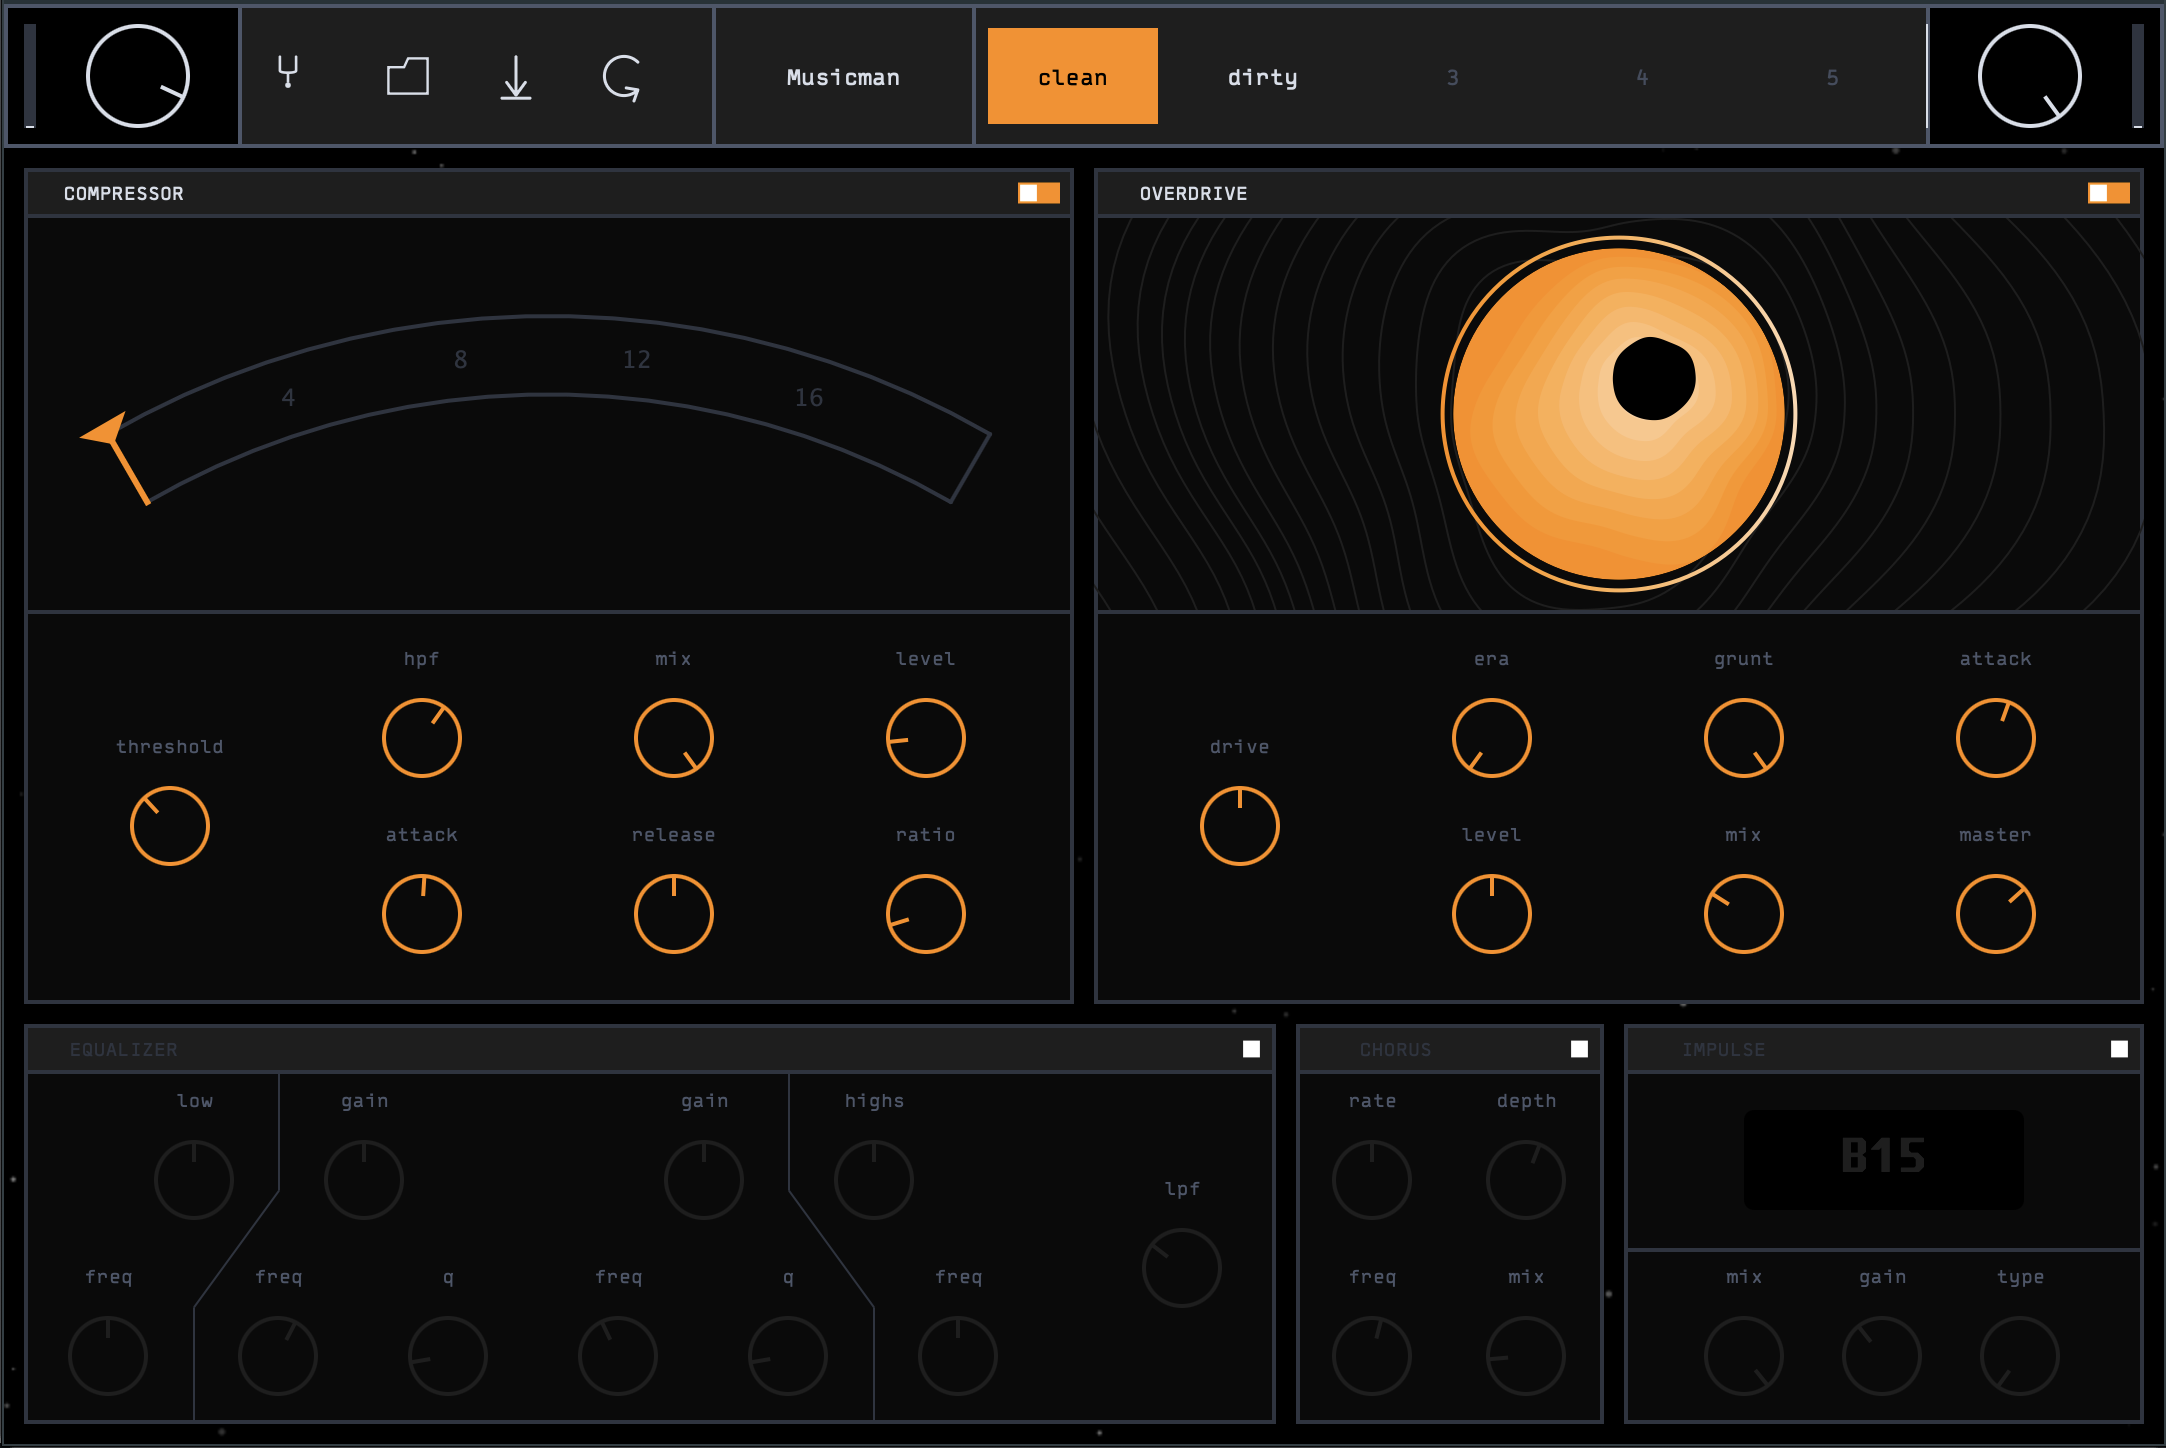
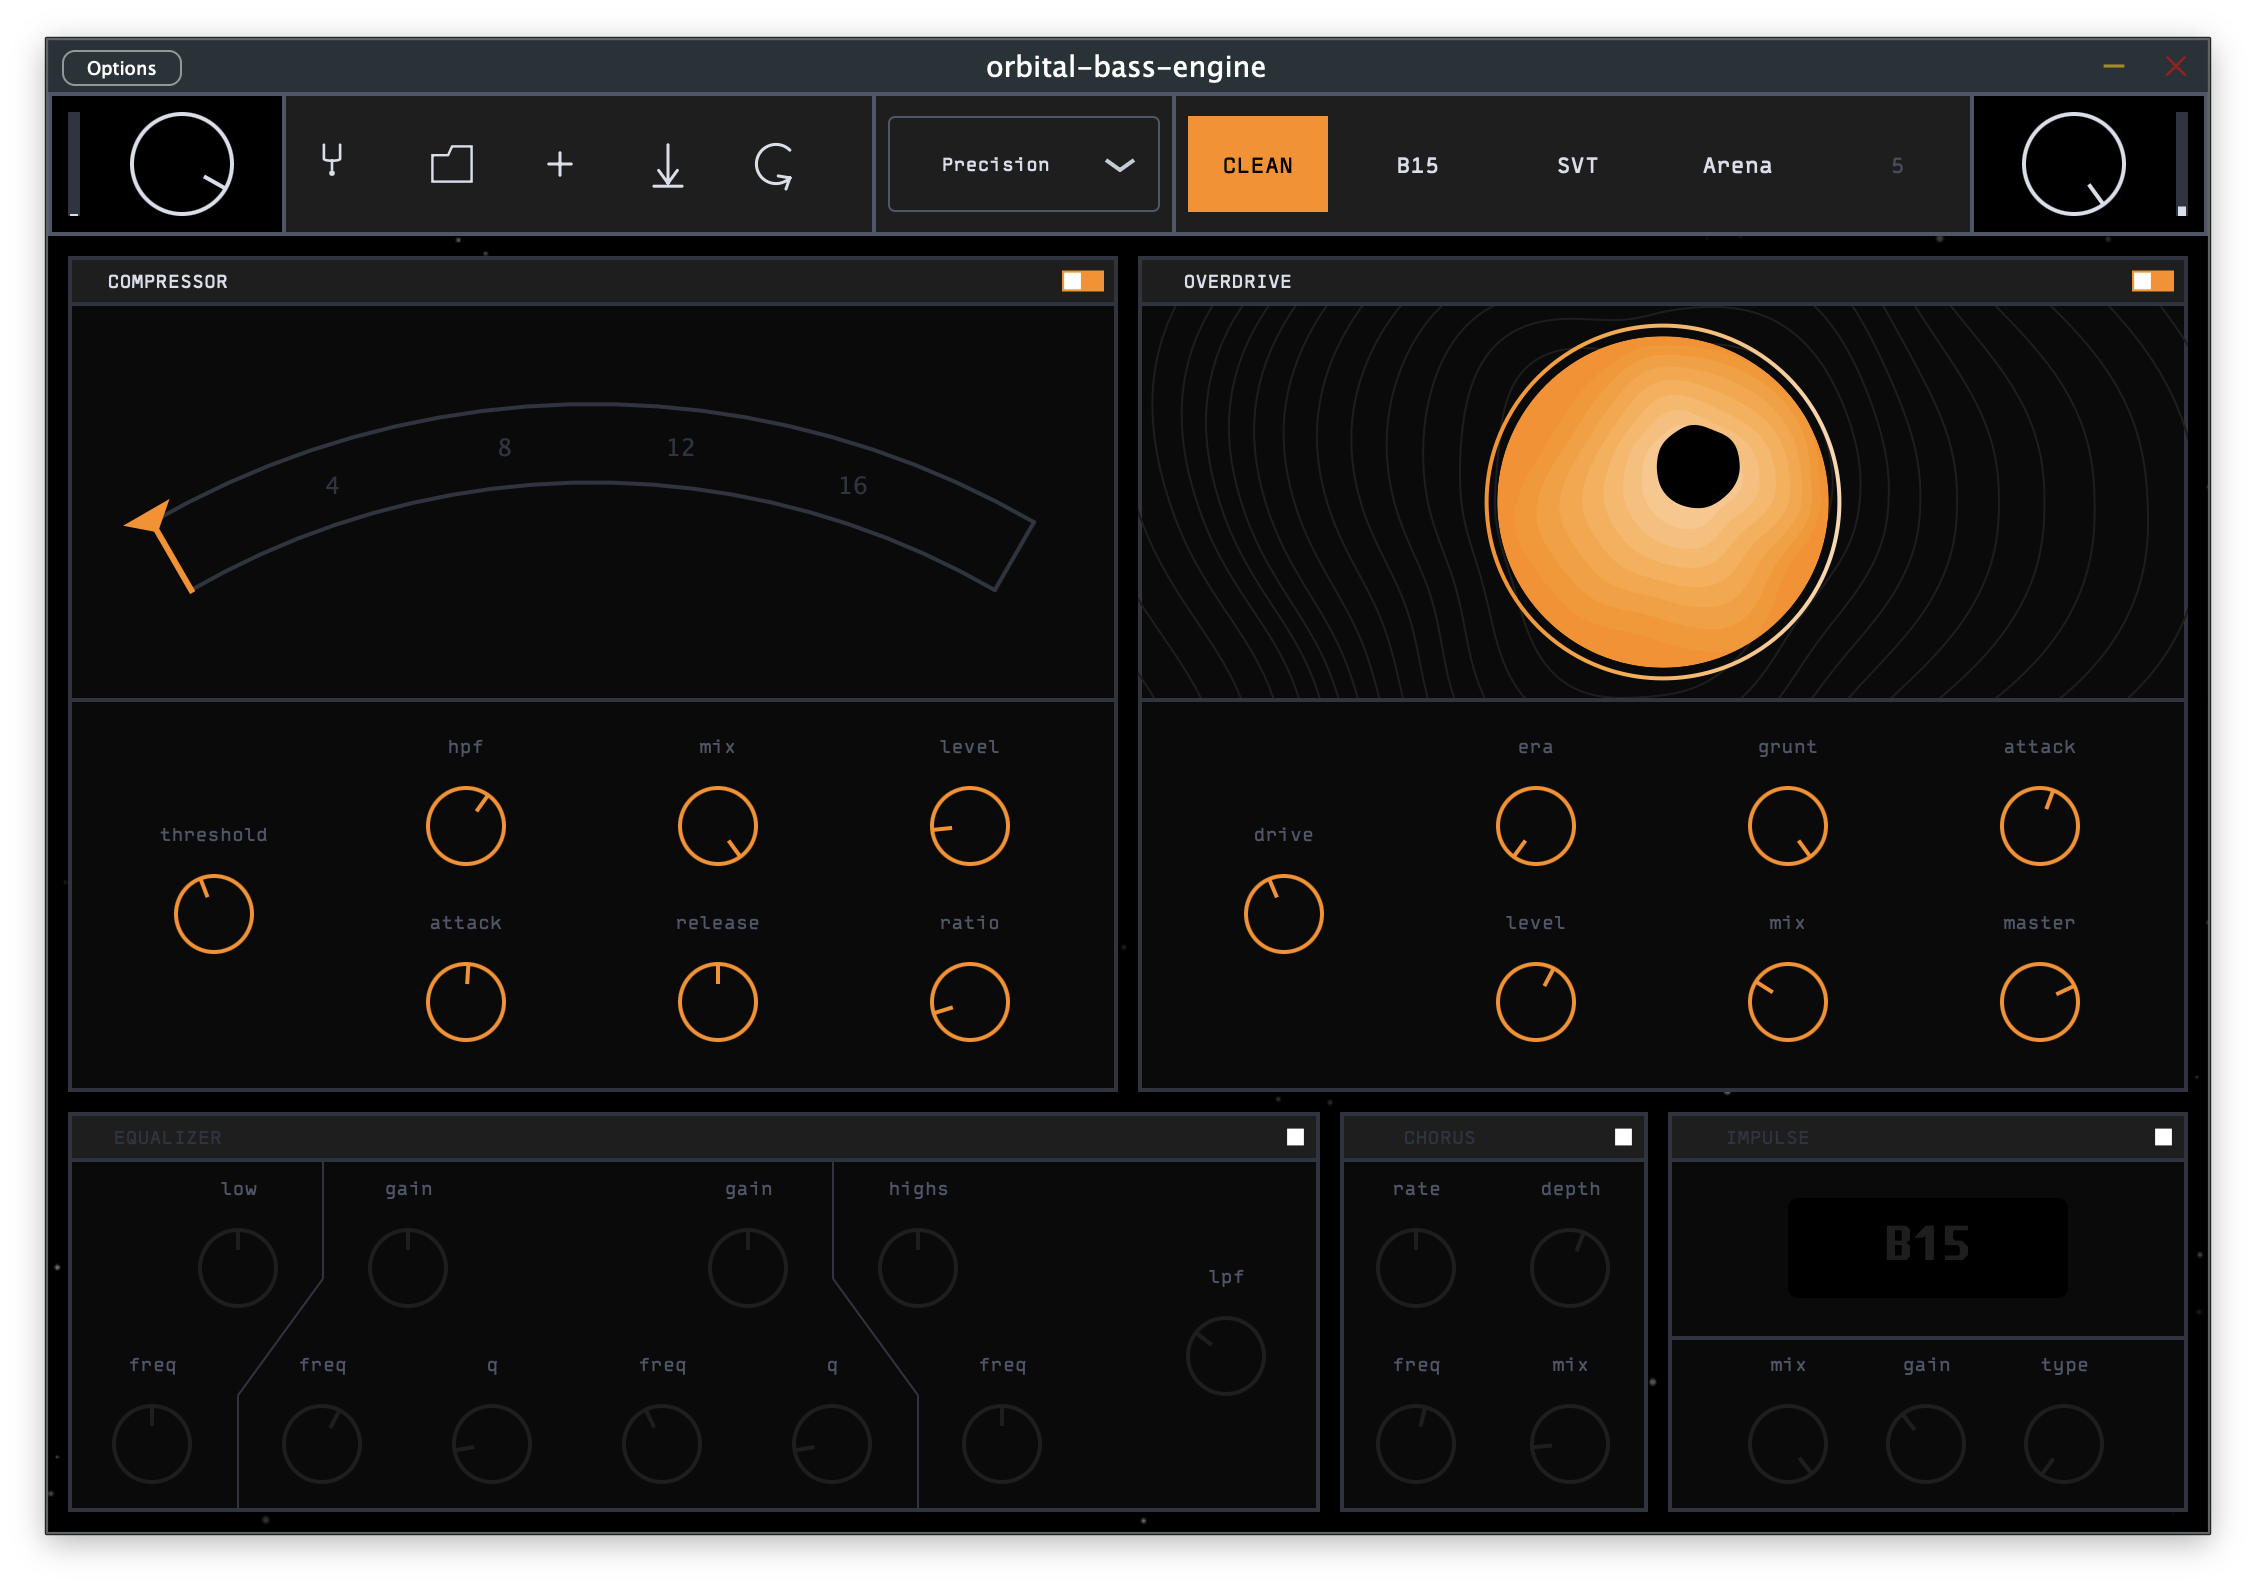
update: doc + screenshot

diff --git a/CLAUDE.md b/CLAUDE.md
@@ -1,0 +1,102 @@
+# Orbital Bass Engine
+
+Bass guitar audio plugin built with JUCE and C++. Runs as a standalone app (macOS/Windows), with plugin format support planned (AU, VST3).
+
+## Build
+
+```bash
+cmake -S . -B builds/local/release -DCMAKE_BUILD_TYPE=Release
+cmake --build builds/local/release --config Release
+```
+
+The standalone app is output to `builds/local/release/src/orbital-bass-engine_artefacts/Release/Standalone/`.
+
+Shortcut targets are available via `make run`, `make build-release`, `make build-debug`, etc.
+
+## Project Structure
+
+```
+src/
+├── plugin_audio_processor.{h,cpp}   # Main audio processor, DSP chain, state persistence
+├── plugin_editor.{h,cpp}            # Top-level editor, wires GUI to processor
+├── parameters.h                     # All audio parameter definitions (createParameterLayout)
+├── preset_manager.{h,cpp}           # Save/load/apply individual presets (XML files)
+├── session_manager.{h,cpp}          # Manages root folder, collections, and preset slots
+├── gui/
+│   ├── header.{h,cpp}               # Top bar: meters, gain knobs, tuner, preset controls
+│   ├── panels.{h,cpp}               # Main panel layout (compressor, amp, EQ, chorus, IR)
+│   ├── preset_bar.{h,cpp}           # 5 clickable preset slots
+│   ├── preset_icon_buttons.{h,cpp}  # Icon buttons: folder, +, save, reload
+│   ├── session_name_display.{h,cpp} # Collection selector dropdown (ComboBox)
+│   ├── colours.h                    # Colour palette (ColourCodes, GuiColours namespaces)
+│   ├── dimensions.h                 # GUI dimension constants
+│   ├── components/                  # Reusable components (LabeledKnob, SolidTooltip)
+│   ├── compressor/                  # Compressor panel (knobs, meter, component)
+│   ├── amp/                         # Amp panel with multiple designs (Helios, Borealis, Nebula)
+│   ├── eq/                          # 5-band EQ panel
+│   ├── chorus/                      # Chorus panel
+│   ├── ir/                          # Impulse response / cabinet sim panel
+│   ├── synth/                       # Synth voices panel
+│   ├── looks/                       # Custom LookAndFeel classes
+│   ├── tuner.{h,cpp}                # Chromatic tuner overlay
+│   └── meter.{h,cpp}                # Level meter
+├── dsp/
+│   ├── compressor.{h,cpp}           # Compressor DSP
+│   ├── eq.{h,cpp}                   # Parametric EQ DSP
+│   ├── ir.{h,cpp}                   # Convolution-based IR loader
+│   ├── chorus.{h,cpp}               # Chorus effect DSP
+│   ├── pitch_detector.{h,cpp}       # Pitch detection for tuner
+│   ├── overdrives/                   # Overdrive circuits (Helios, Borealis)
+│   ├── synth_voices/                 # Sub-octave synth voices
+│   ├── circuits/                     # Circuit models (CMOS, JFET, diodes, triodes, BJT)
+│   ├── filters/                      # Drive filter
+│   └── maths/                        # Lookup tables, omega function
+└── assets/                           # Binary impulse response data
+```
+
+## Architecture
+
+### Audio Processing Chain
+
+Signal flow in `processBlock`: mono summing → input gain → (tuner) → compressor → overdrive + amp master → EQ → stereo copy → chorus → IR convolution → output gain → startup fade.
+
+Each DSP module has a bypass parameter. The processor uses `juce::AudioProcessorValueTreeState` for all parameters.
+
+### Preset & Collection System
+
+- **Root folder**: A user-chosen directory containing collection subdirectories.
+- **Collection**: A subdirectory within the root folder. Each collection holds up to 5 presets (`preset_1.xml` through `preset_5.xml`).
+- **Preset**: An XML file containing the full `AudioProcessorValueTreeState` serialized via `ValueTree::createXml()`, with a `presetName` attribute.
+
+`SessionManager` manages the root folder, enumerates collections, loads/switches collections, and tracks the 5 preset slots. `PresetManager` handles individual preset file I/O and applying state.
+
+Persistence uses both `juce::PropertiesFile` (for standalone: `rootFolderPath`, `lastCollectionName`, `lastPresetIndex`) and the APVTS state tree properties (`root_folder_path`, `session_folder_path`) for DAW host recall.
+
+### GUI
+
+Fixed size 1080x720. The `Header` contains input/output meters and gain knobs, a tuner toggle, preset icon buttons (folder, new collection, save, reload), a collection selector dropdown, and 5 preset slots. The `Panels` component holds the DSP module panels.
+
+All custom drawing uses JUCE `Graphics` — no external image assets for the UI. The colour palette is defined in `ColourCodes` namespace (Nord-inspired theme). Custom `LookAndFeel` classes are in `gui/looks/`.
+
+### Impulse Responses
+
+Cabinet IRs are embedded as binary data (`assets/ImpulseResponseBinary.{h,cpp}`), generated from WAV files in `impulses/` using JUCE's BinaryBuilder. The mapping is in `assets/ImpulseResponseBinaryMapping.h`. Available cabs: B15, SVT810, EBS410, XL410, PPC212, TC410.
+
+## Conventions
+
+- C++ with JUCE framework idioms. No STL containers for audio-thread code.
+- GUI components follow JUCE's `Component` pattern with `paint()` and `resized()`.
+- Parameters are defined in `parameters.h` and accessed via `AudioProcessorValueTreeState`.
+- Listener pattern (`SessionManager::Listener`) for GUI updates on state changes.
+- DSP modules implement `prepare(ProcessSpec)` and `process(ProcessContextReplacing)`.
+- Font used: "Typestar" at 13pt for UI text.
+
+## CI/CD
+
+GitHub Actions workflow in `.github/workflows/release.yml`:
+- Triggers on `v*` tag push or manual dispatch.
+- Builds macOS and Windows in parallel.
+- macOS uses `ditto` for packaging (preserves `.app` bundle structure).
+- On tag push, creates a GitHub Release with both platform zips attached.
+
+Tag and push to release: `git tag v1.0.0 && git push <remote> v1.0.0`.

diff --git a/README.md b/README.md
@@ -18,7 +18,7 @@ The audio processing flows through the following stages:
 2. **Tuner** - Chromatic tuner with YIN pitch detection
 3. **Compressor** - Dynamics control with analog-modeled FET circuit
 4. **Overdrive** - Overdrive with a vintage microtubes vibe
-5. **EQ** - 6-band tone shaping with low-pass filter
+5. **EQ** - 4-band parametric tone shaping with low-pass filter
 6. **Chorus** - Stereo width and modulation (post mono-to-stereo conversion)
 7. **IR Convolver** - Cabinet simulation using impulse responses
 8. **Output Gain** - Final level control
@@ -43,7 +43,7 @@ FET-style compression with fast attack and aggressive character, using JFET circ
 
 ### Overdrive
 
-The overdrive tries to emulate the famous Darkglass Vintage Microtubes pedal by modeling the circuit components of the original circuit using digital filters and a saturation curve directly taken from the following research paper: `https://www.dafx.de/paper-archive/2020/proceedings/papers/DAFx2020_paper_21.pdf`
+The overdrive tries to emulate the famous Darkglass Vintage Microtubes pedal by modeling the circuit components of the original circuit using digital filters and a saturation curve directly taken from the following research paper: https://www.dafx.de/paper-archive/2020/proceedings/papers/DAFx2020_paper_21.pdf
 
 **Controls:**
 - Drive (0-10)
@@ -55,7 +55,7 @@ The overdrive tries to emulate the famous Darkglass Vintage Microtubes pedal by 
 
 ### EQ
 
-A 4-band parametric equalizer, includuing two fully parametric mid peak filters, a low-shelf and a high-shelf.
+A 4-band parametric equalizer, including two fully parametric mid peak filters, a low-shelf and a high-shelf.
 
 Each band offers +/-12dB of gain.
 
@@ -71,16 +71,39 @@ Stereo chorus with multiband processing to preserve low-end focus.
 
 ### IR Convolver
 
-Cabinet simulation using built-in impulse responses with parallel processing. It uses the IR from the Shift-Line free pack available there: `https://shift-line.com/irpackbass`
+Cabinet simulation using built-in impulse responses with parallel processing. It uses the IR from the [Shift-Line free pack](https://shift-line.com/irpackbass).
 
 **Controls:**
-- IR Type (selectable)
+- IR Type (B15, SVT810, EBS410, XL410, PPC212, TC410)
 - Level (-36dB to 12dB)
 - Mix (0% to 100%)
 
-### Sessions & Presets
+### Preset Collections
 
-The plugin supports sessions containing up to 5 presets. Sessions are saved to disk and automatically restored on startup.
+Presets are organized into **collections** within a user-chosen root folder. Each collection is a subdirectory containing up to 5 presets.
+
+- Click the **folder icon** to select a root folder
+- Click the **+ button** to create a new collection
+- Use the **dropdown** to switch between collections
+- Click a **preset slot** to load a preset, use the **save icon** to save the current state, and the **reload icon** to revert to the saved state
+
+The root folder, last selected collection, and last selected preset are all persisted and automatically restored on startup.
+
+## Download
+
+Pre-built binaries for macOS and Windows are available on the [Releases](../../releases) page.
+
+### macOS
+
+The app is not code-signed, so macOS Gatekeeper will quarantine it after download. To open it:
+
+- **Right-click** (or Control-click) the app and choose **Open** from the context menu, then click **Open** in the dialog.
+
+Alternatively, remove the quarantine attribute via Terminal:
+
+```sh
+xattr -cr /path/to/orbital-bass-engine.app
+```
 
 ## Building
 
@@ -98,12 +121,17 @@ make init-release
 make build-release
 ```
 
-### Windows (GitHub Actions)
-
-A manually-triggered GitHub Actions workflow is available to build on Windows. Go to **Actions > Build Windows > Run workflow**.
-
 ### Windows (cross-compile via Docker)
 
 ```sh
 make build-windows
+```
+
+## Releasing
+
+Pushing a version tag triggers a GitHub Actions workflow that builds both macOS and Windows, then creates a GitHub Release with the artifacts attached:
+
+```sh
+git tag v1.0.0
+git push <remote> v1.0.0
 ```
